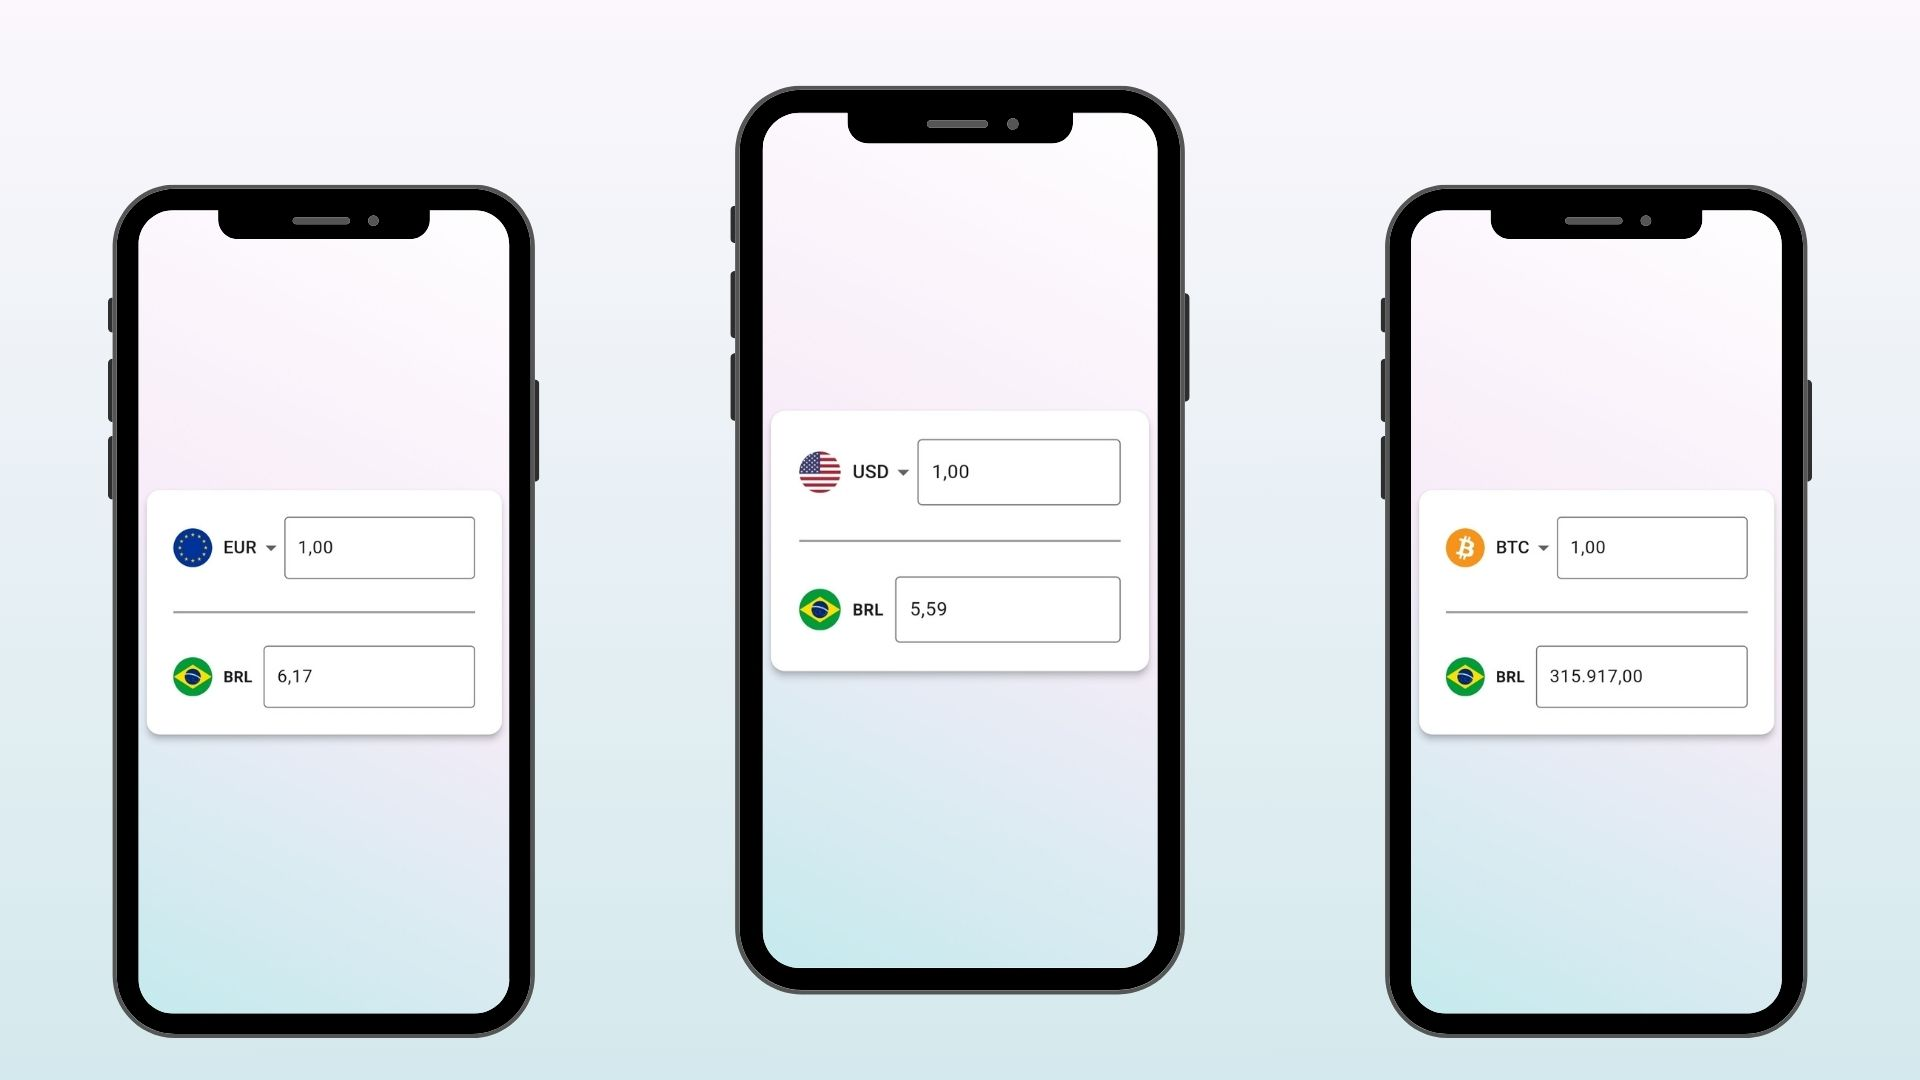
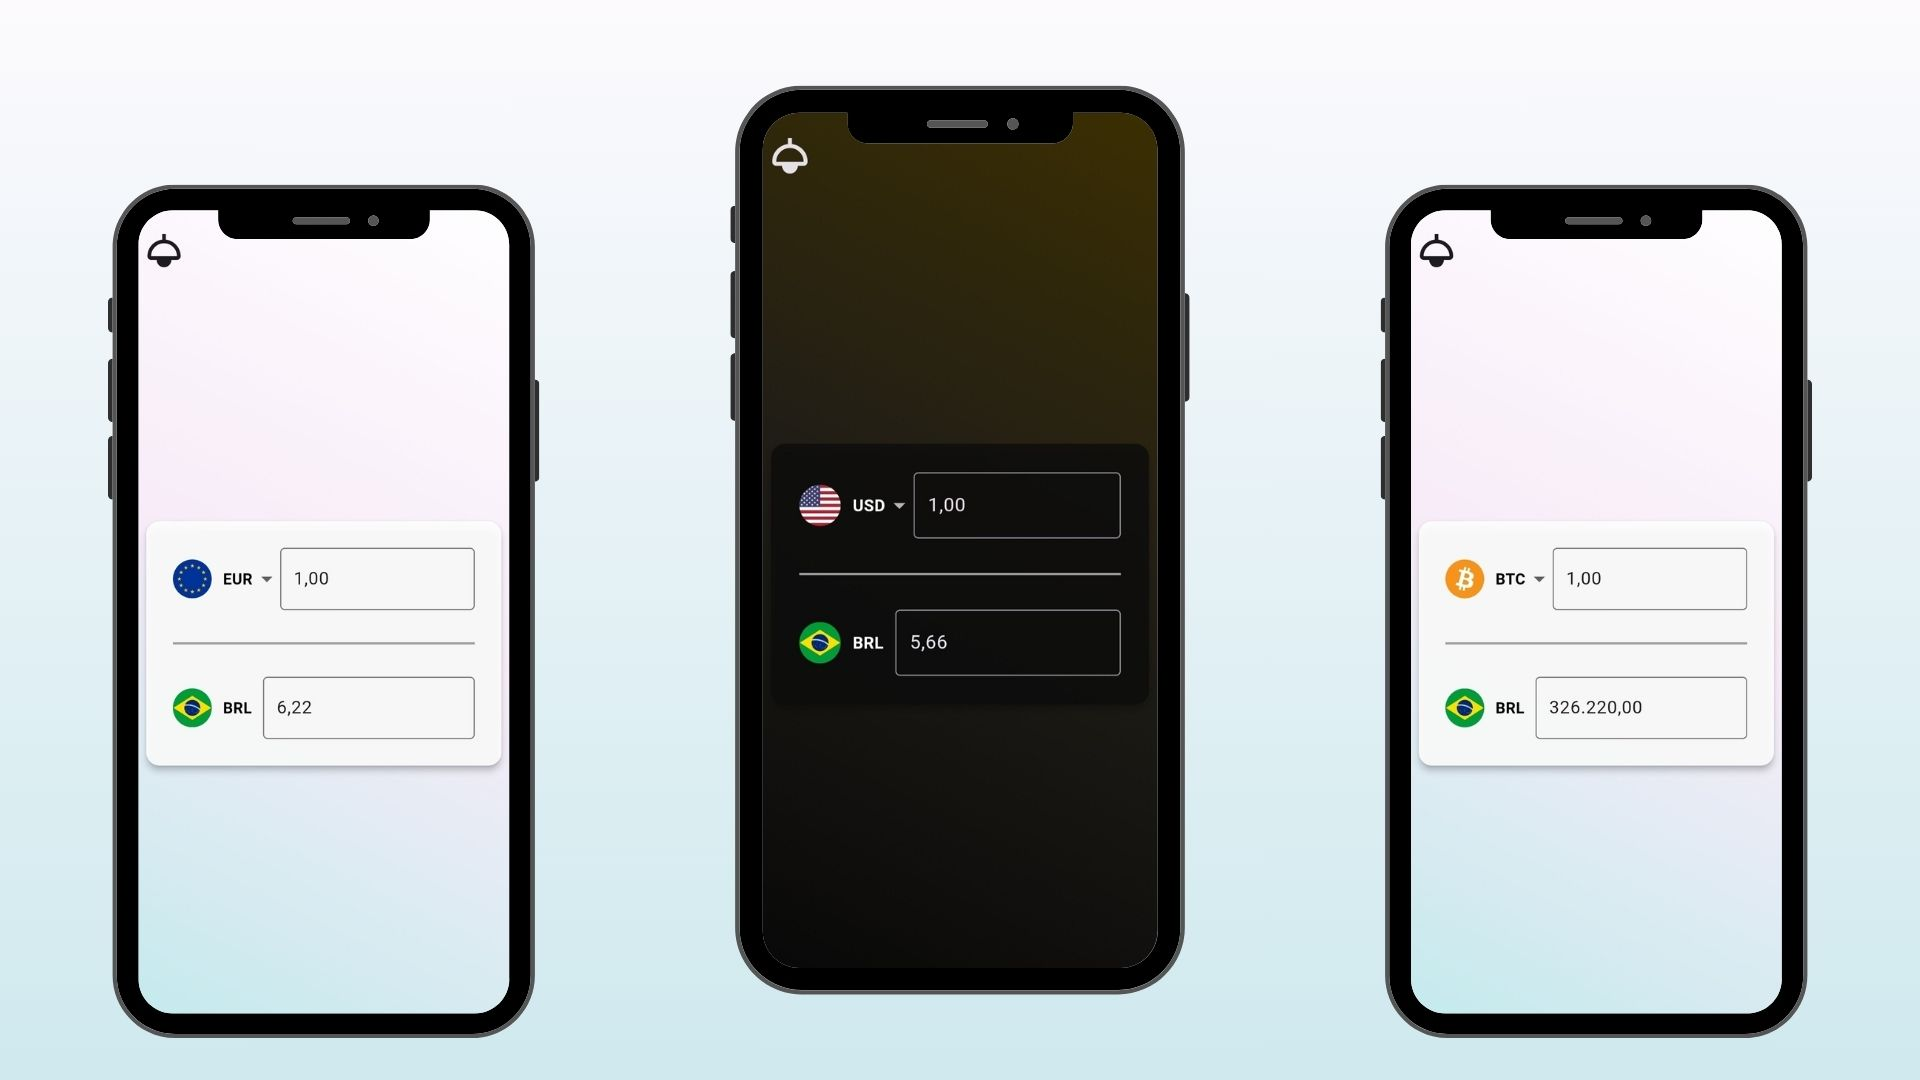
Organizando o codigo de tema

diff --git a/lib/presentation/theme/theme.dart b/lib/presentation/theme/theme.dart
@@ -15,14 +15,9 @@ class MyTheme {
     canvasColor: const Color(0xe5c4eaed),
     textTheme: MyTextTheme.lightTextTheme,
     cardTheme: MyCardTheme.lightCardTheme,
-    cardColor: Colors.black54,
     appBarTheme: MyAppBarTheme.lightBarTheme,
     extensions: [MyCustomExtention(
-      containerGradient: const LinearGradient(
-        colors: [Color(0xffffffff), Color(0xfff7ecf8), Color(0xffc4eaed)],
-        stops: [0, 0.5, 1],
-        begin: Alignment.topRight,
-        end: Alignment.bottomLeft,),
+      containerGradient: MyColors.backGroundLightGradient,
     )]
   );
 
@@ -32,14 +27,9 @@ class MyTheme {
     canvasColor: const Color(0xE53D3000),
     textTheme: MyTextTheme.darkTextTheme,
     cardTheme: MyCardTheme.darkCardTheme,
-    cardColor: Colors.black54,
     appBarTheme: MyAppBarTheme.darkBarTheme,
     extensions: [MyCustomExtention(
-      containerGradient: const LinearGradient(
-        colors: [Color(0xFF3D3000), Color(0xFF201D17), Color(0xFF080808)],
-        stops: [0, 0.5, 1],
-        begin: Alignment.topRight,
-        end: Alignment.bottomLeft,),
+      containerGradient: MyColors.backGroundDarkGradient,
     )]
   );
 }

diff --git a/lib/presentation/theme/theme_colors.dart b/lib/presentation/theme/theme_colors.dart
@@ -5,10 +5,17 @@ class MyColors {
 
   static Color branco = const Color(0xE6FFFFFF);
   static Color preto = const Color(0xCD0C0C0C);
-  static LinearGradient backGroundGradient = const LinearGradient(
+  static LinearGradient backGroundLightGradient = const LinearGradient(
       colors: [Color(0xffffffff), Color(0xfff7ecf8), Color(0xffc4eaed)],
       stops: [0, 0.5, 1],
       begin: Alignment.topRight,
       end: Alignment.bottomLeft,
   );
+  static LinearGradient backGroundDarkGradient = const LinearGradient(
+      colors: [Color(0xFF3D3000), Color(0xFF201D17), Color(0xFF080808)],
+      stops: [0, 0.5, 1],
+      begin: Alignment.topRight,
+      end: Alignment.bottomLeft,
+  );
+
 }

diff --git a/lib/presentation/pages/home_page.dart b/lib/presentation/pages/home_page.dart
@@ -1,6 +1,7 @@
 import 'package:Conversor_moedas/blocs/theme_cubit.dart';
 import 'package:Conversor_moedas/presentation/theme/custom_themes/theme_extention.dart';
 import 'package:flutter/material.dart';
+import 'package:flutter/services.dart';
 import 'package:flutter_bloc/flutter_bloc.dart';
 
 import '../../blocs/moeda_bloc.dart';
@@ -15,6 +16,9 @@ class HomePage extends StatelessWidget {
     return Scaffold(
       extendBodyBehindAppBar: true,
       appBar: AppBar(
+        systemOverlayStyle: const SystemUiOverlayStyle(
+          systemStatusBarContrastEnforced: true,
+        ),
         leading: Padding(
           padding: const EdgeInsets.all(8.0),
           child: IconButton(
